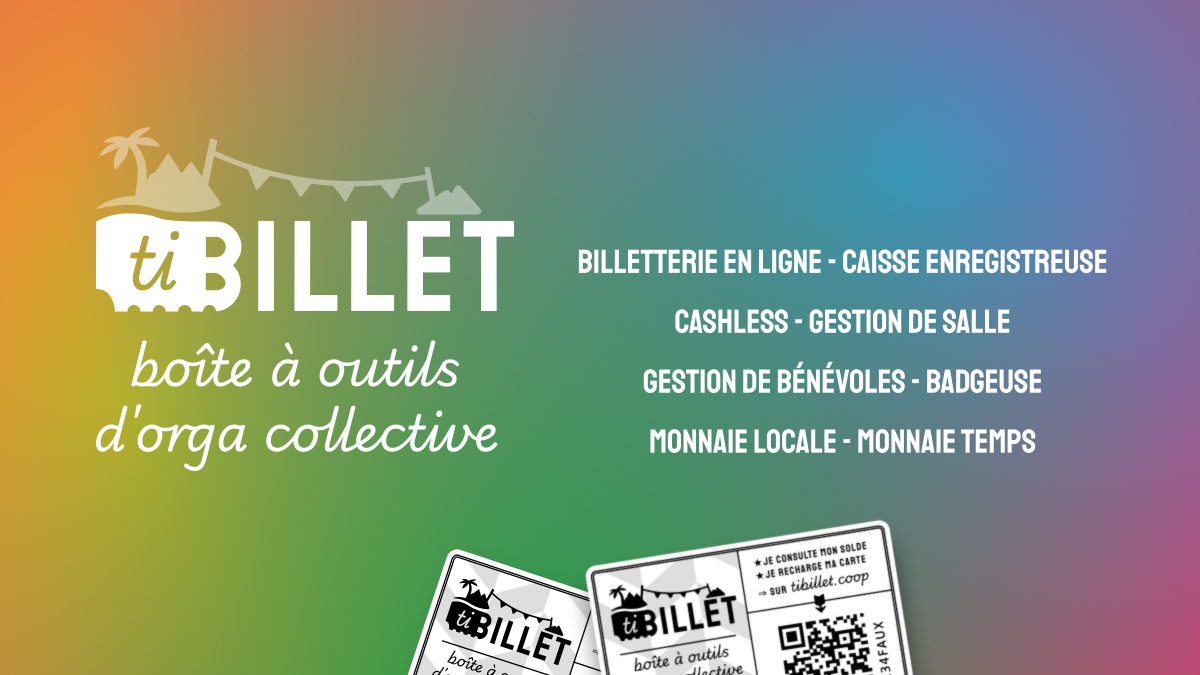
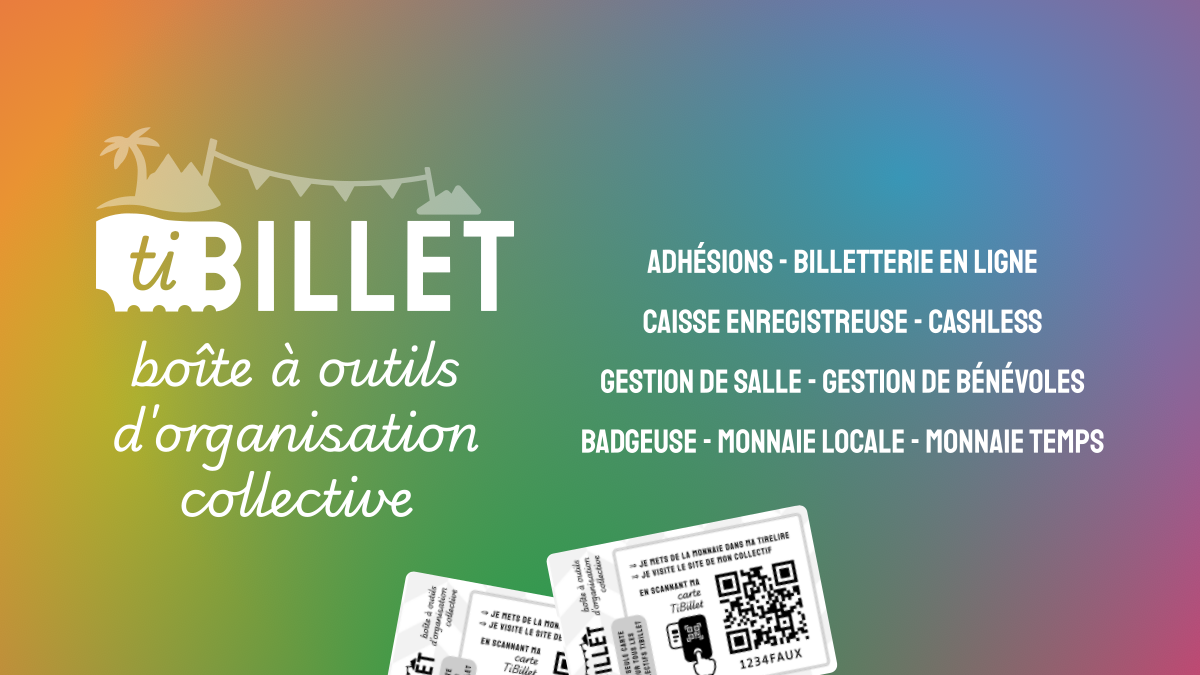
Update metadata, Algolia config, and add new images
Updated SEO metadata descriptions and social card image references. Configured Algolia settings with new app ID, API key, and index name. Added multiple new images to the static directory for improved content support.

diff --git a/docusaurus.config.js b/docusaurus.config.js
@@ -150,22 +150,22 @@ const config = {
             // SEO metadata
             metadata: [
                 {name: 'keywords', content: 'TiBillet, billetterie, ticketing, cashless, cooperative, open source'},
-                {name: 'description', content: 'TiBillet - Outils coopératifs de billetterie et cashless open source'},
+                {name: 'description', content: "TiBillet - Outils coopératifs d'adhésion de billetterie et caisse open source"},
                 {name: 'twitter:card', content: 'summary_large_image'},
                 {name: 'og:type', content: 'website'},
                 {name: 'og:title', content: 'TiBillet - Outils coopératifs'},
-                {name: 'og:description', content: 'TiBillet - Outils coopératifs de billetterie et cashless open source'},
-                {name: 'og:image', content: 'https://tibillet.org/img/design/social-card.png'},
+                {name: 'og:description', content: "TiBillet - Outils coopératifs d'adhésion de billetterie et caisse open source"},
+                {name: 'og:image', content: 'https://tibillet.org/img/design/social-card.jpg'},
             ],
             // Replace with your project's social card
-            image: 'img/design/social-card.png',
+            image: 'img/design/social-card.jpg',
             // Algolia DocSearch Configuration
             algolia: {
               // The application ID provided by Algolia
-              appId: 'YOUR_APP_ID',
+              appId: 'BUC6ZG1CMU',
               // Public API key: it is safe to commit it
-              apiKey: 'YOUR_SEARCH_API_KEY',
-              indexName: 'YOUR_INDEX_NAME',
+              apiKey: '29f69fc995adee15876974e8ad3aecf1',
+              indexName: 'tibillet',
               // Optional: see doc section below
               contextualSearch: true,
               // Optional: Specify domains where the navigation should occur through window.location instead on history.push. Useful when our Algolia config crawls multiple documentation sites and we want to navigate with window.location.href to them.
